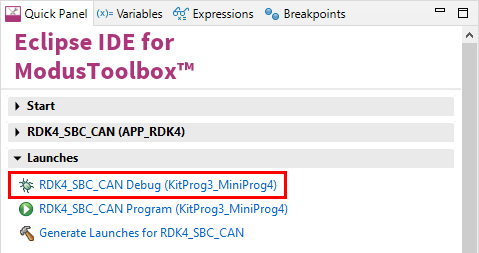
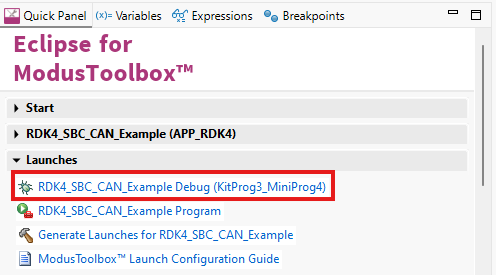
mtb 3.7 updates.

Changed region(s): [[0.0, 0.3597, 0.7015, 0.9684], [0.0, 0.0, 1.0, 1.0]]

diff --git a/README.md b/README.md
@@ -1,17 +1,17 @@
 # RDK4 SBC CAN Example
 
-This application is intended to be used as a reference firmware example for developers who need to quickly start with PSoC4100S Max and System Basis Chip TLE9262-3BQXV33 CAN interface.
+This application is intended to serve as a reference firmware example for developers who need to quickly get started with the PSoC4100S Max and the System Basis Chip TLE9262-3BQXV33 CAN interface.
 
  <img src="images/rdk4_top.jpg" style="zoom:20%;" />
 
 ## Requirements
 
-- [ModusToolbox® software](https://www.infineon.com/cms/en/design-support/tools/sdk/modustoolbox-software/) v2025.4.0
+- [ModusToolbox® software](https://www.infineon.com/cms/en/design-support/tools/sdk/modustoolbox-software/) v3.7
 - The latest hardware release [RDK4 Rev2](https://github.com/RutronikSystemSolutions/RDK4_Hardware_Files).
 
 ## Supported toolchains (make variable 'TOOLCHAIN')
 
-- GNU Arm&reg; Embedded Compiler v11.3.1 (`GCC_ARM`) - Default value of `TOOLCHAIN`
+- GNU Arm&reg; Embedded Compiler v14.2.1 (`GCC_ARM`) - Default value of `TOOLCHAIN`
 
 ## Using the code example
 
@@ -46,26 +46,20 @@ For more details, see the [Eclipse IDE for ModusToolbox&trade; software user gui
 
 ### Operation
 
-The firmware example uses KitProg3 Debug UART for debug output. It shows the incoming messages and replay them with ID+1.
+The firmware example uses KitProg3 Debug UART for debug output. It shows incoming messages and replies to them, with IDs incremented by 1.
 
 <img src="images/Terminal_Output.png" style="zoom:100%;" />
 <img src="images/KCAN.png" style="zoom:100%;" />
 
 ### Debugging
 
-If you successfully have imported the example, the debug configurations are already prepared to use with the KitProg3 or MiniProg4. Open the ModusToolbox perspective and find the Quick Panel. Click on the desired debug launch configuration and wait for the programming to complete and the debugging process to start.
+If you have successfully imported the example, the debug configurations are already prepared to use with the KitProg3 or MiniProg4. Open the ModusToolbox perspective and find the Quick Panel. Click the desired debug launch configuration, then wait for programming to complete and debugging to start.
 
 <img src="images/debug_launch.png" style="zoom:100%;" />
 
 #### SBC Development Mode
 
-A special mode, called SBC Development Mode, is available during software development or debugging of the system. The watchdog counter is stopped and does not need to be triggered. This mode can be accessed by setting the TEST [**FO3**] pin to GND during SBC Init Mode.
-
-### Cable Assembly
-
-The OBD-II cable is not included in the RDK4 development kit, hence it is needed to assemble it before the example could be fully tested with a vehicle. The part of the cable is provided by Rutronik and comes together with RDK4's package. It is a cable for the Amphenol ICC Minitek MicroSpace**™** header Part No.: **10142344-104KLF**. The rest has to be done by the developers. Soldering skills are needed to assemble the OBD-II socket, please pay attention to the pinouts shown below:
-
-<img src="images/CAN_pinout.png" style="zoom:70%;" />
+A special mode, called SBC Development Mode, is available for software development or system debugging. The watchdog counter is stopped and does not need to be triggered. This mode can be accessed by setting the TEST [**FO3**] pin to GND during SBC Init Mode.
 
 
 ## Legal Disclaimer
